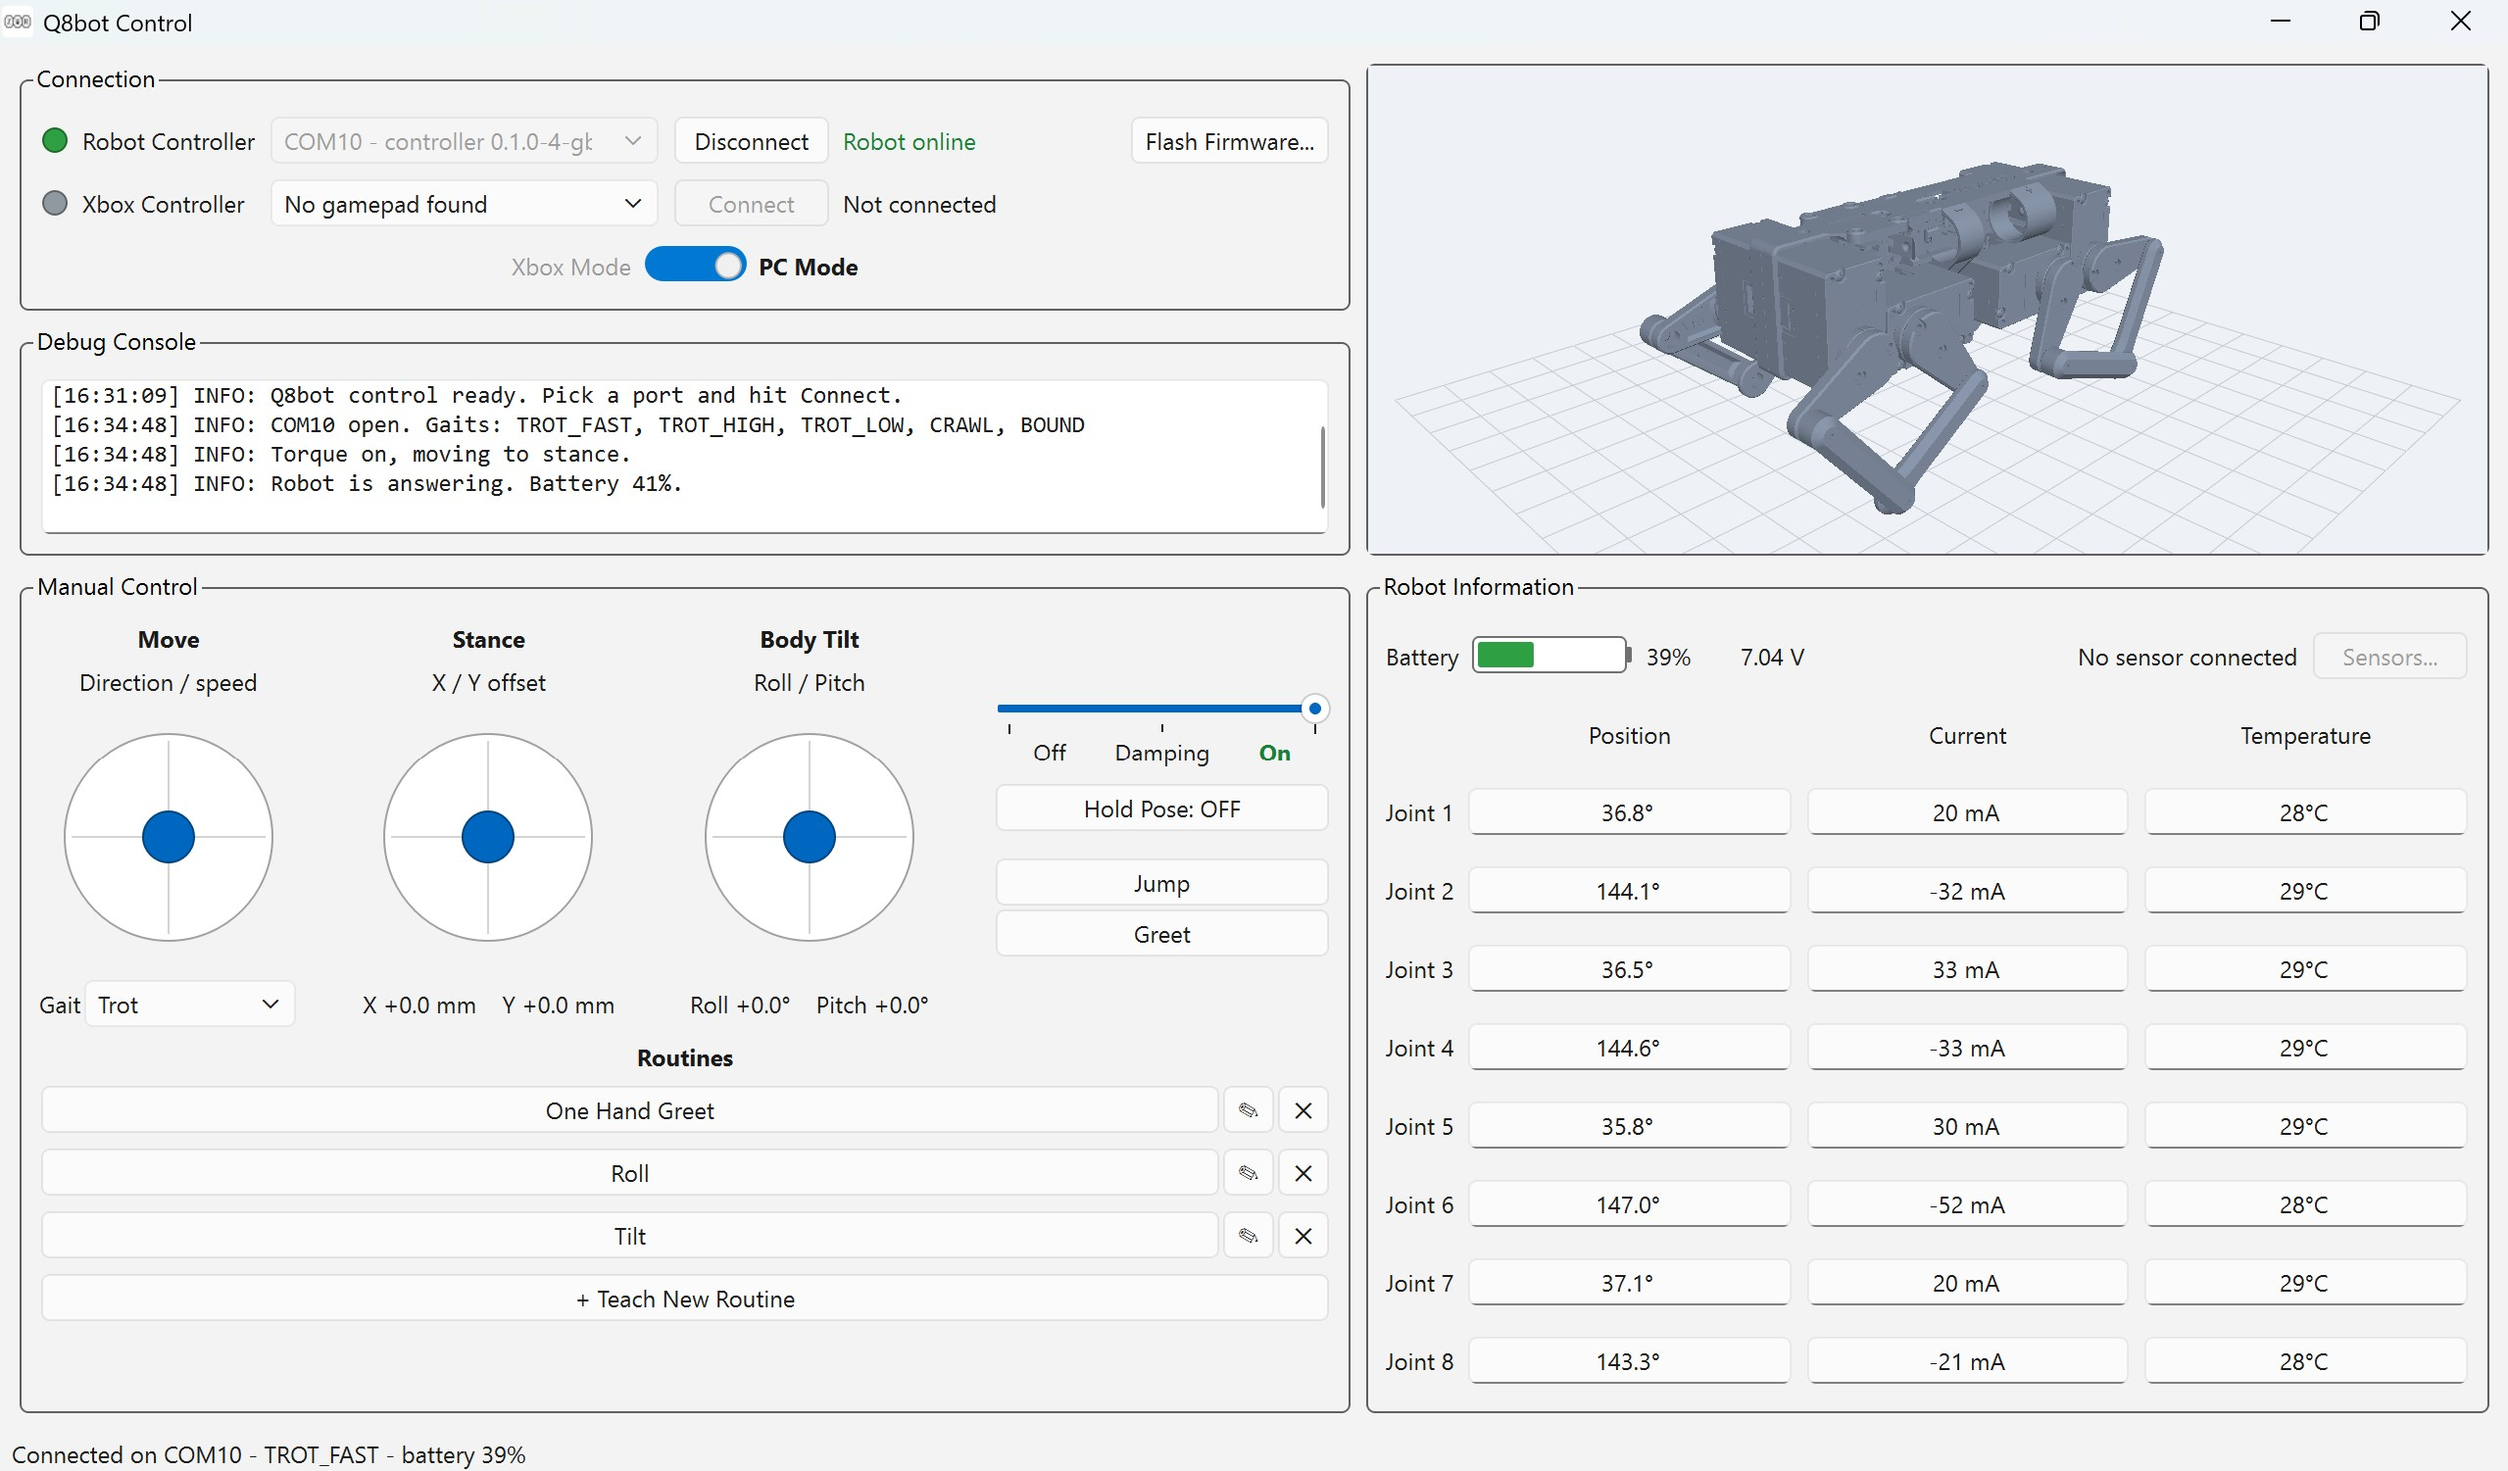
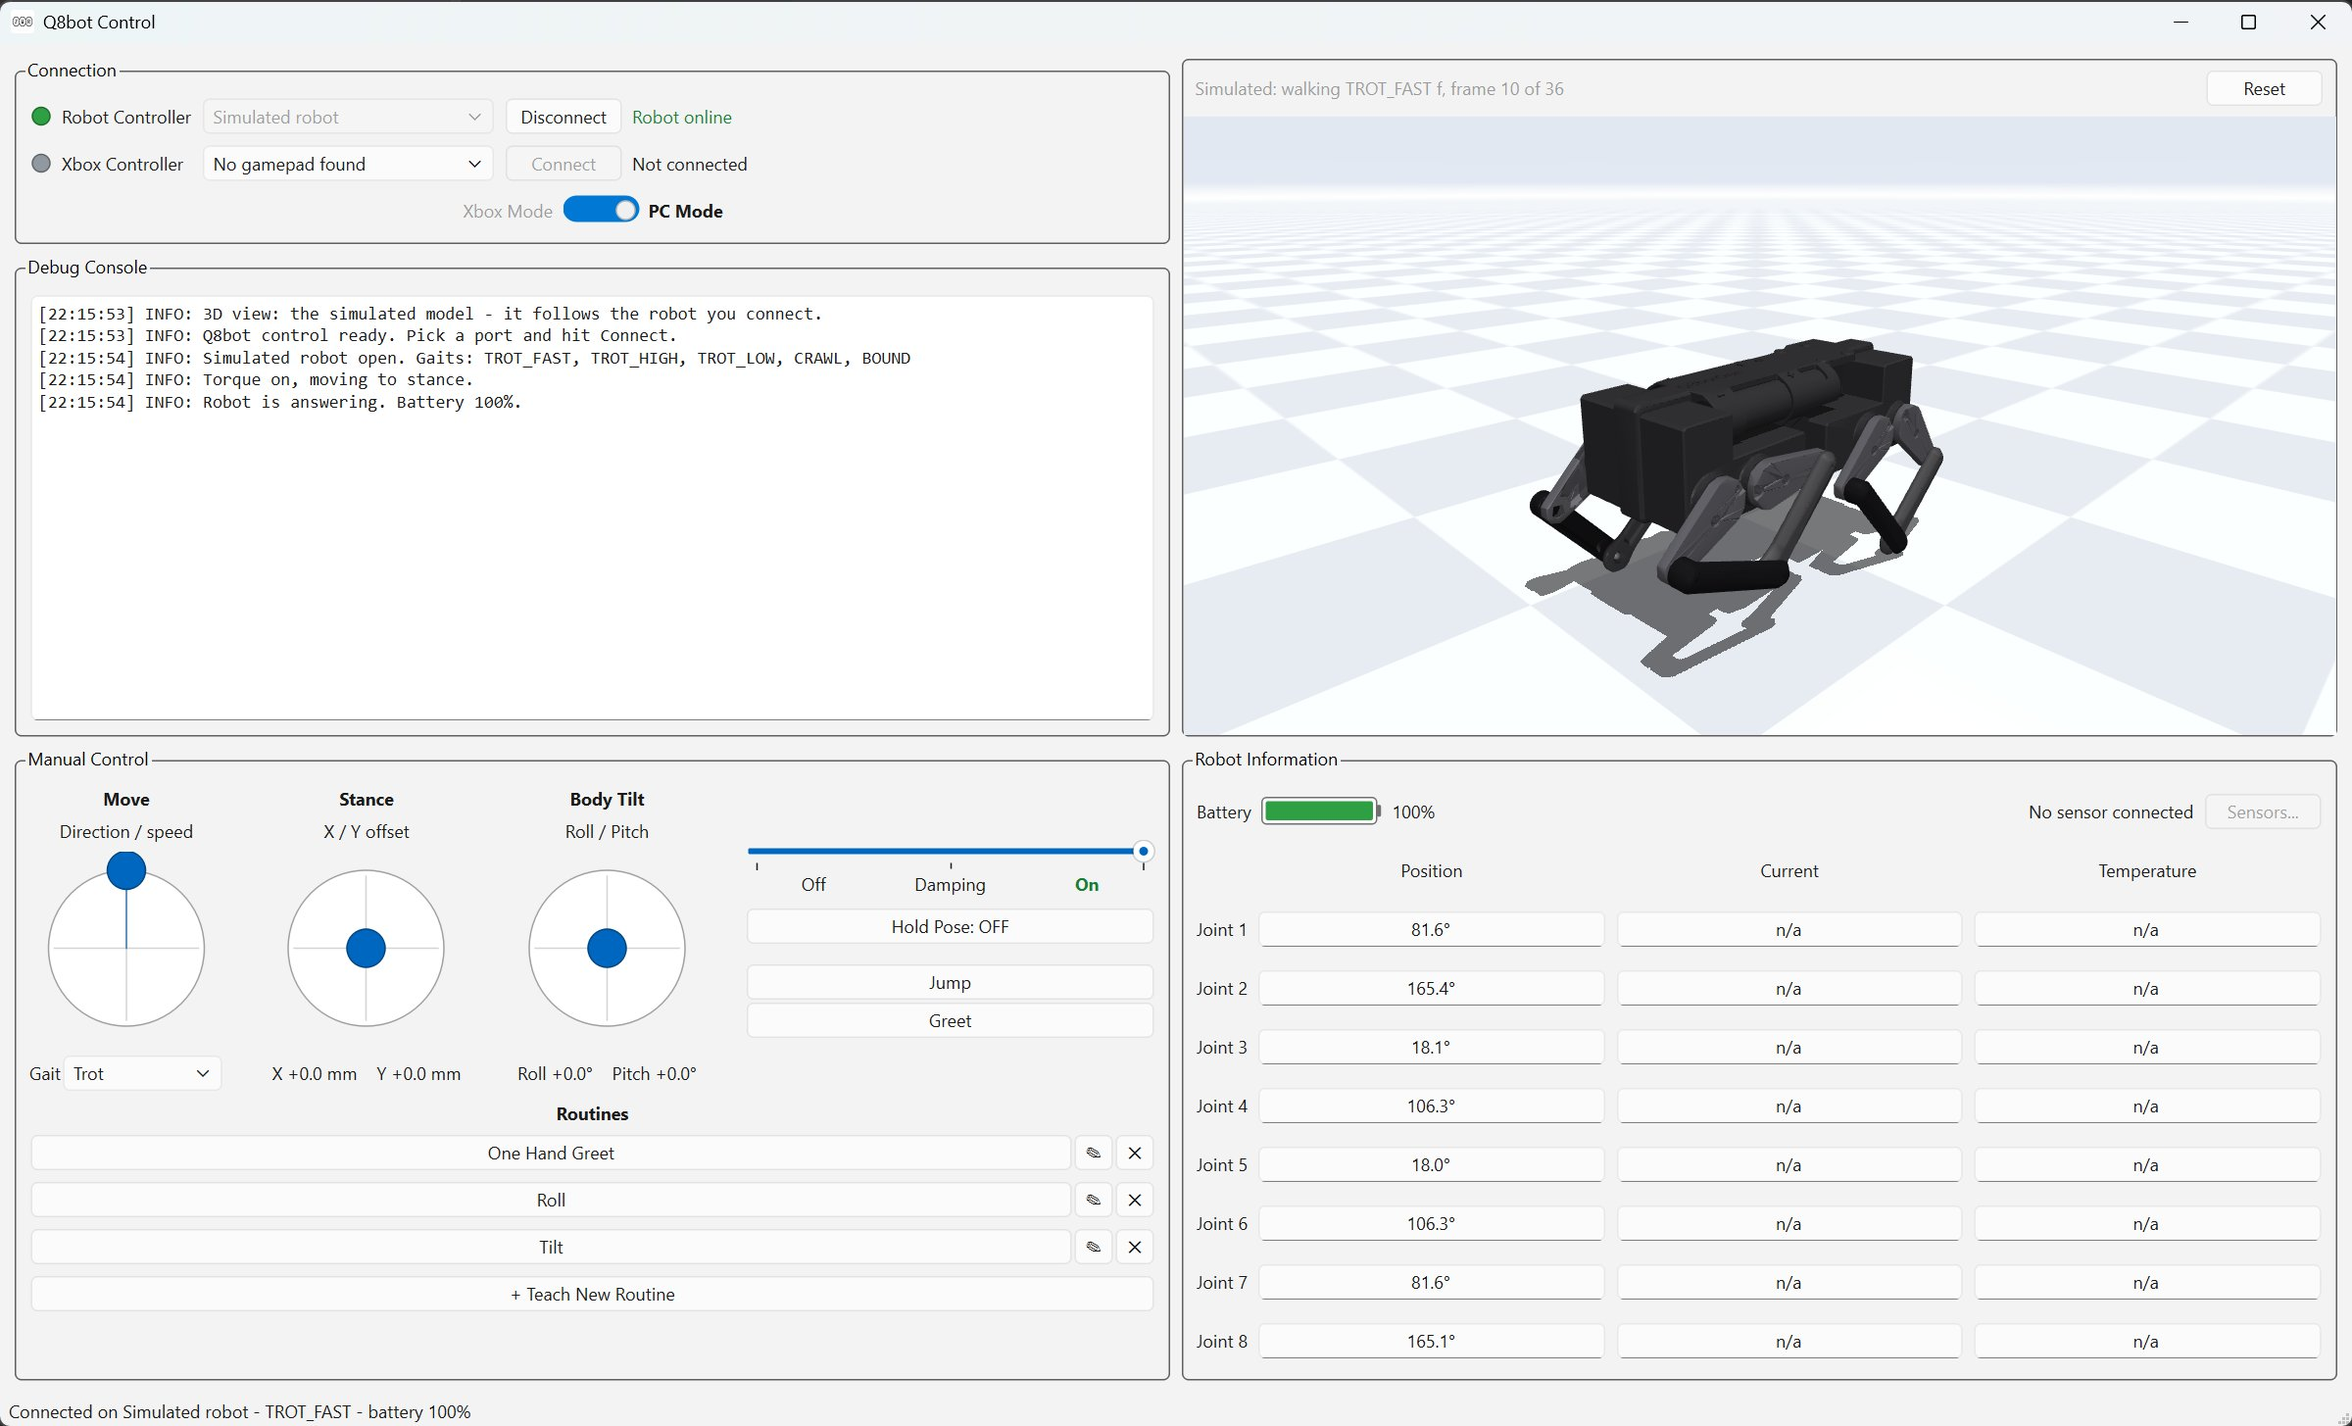
README: the app's screenshot, now with the simulated robot walking
The live MuJoCo model mid-trot on the Simulated robot, replacing October's
still model on a real robot. "What's here" lists the simulator (q8botone_sim/,
model/) and appbuild/.

Python-Version: unreleased, after v0.2.0
Bundled-Firmware: 0.2.2
Protocol-Version: 3

diff --git a/README.md b/README.md
@@ -10,6 +10,9 @@ Python library and desktop app for **Q8botOne**, a quadruped robot with no physi
 
 - `q8bot/` - the Python library, for driving the robot from your own scripts
 - `q8bot/ui/` - the desktop app, built on the library
+- `q8botone_sim/` and `model/` - the simulator: Q8botOne's physics model in
+  [MuJoCo](https://mujoco.org), behind the app's 3D view and Simulated robot
+- `appbuild/` - how the downloadable app is built
 - `example.py` - a guided tour of the library on your robot
 
 ## Download the app
